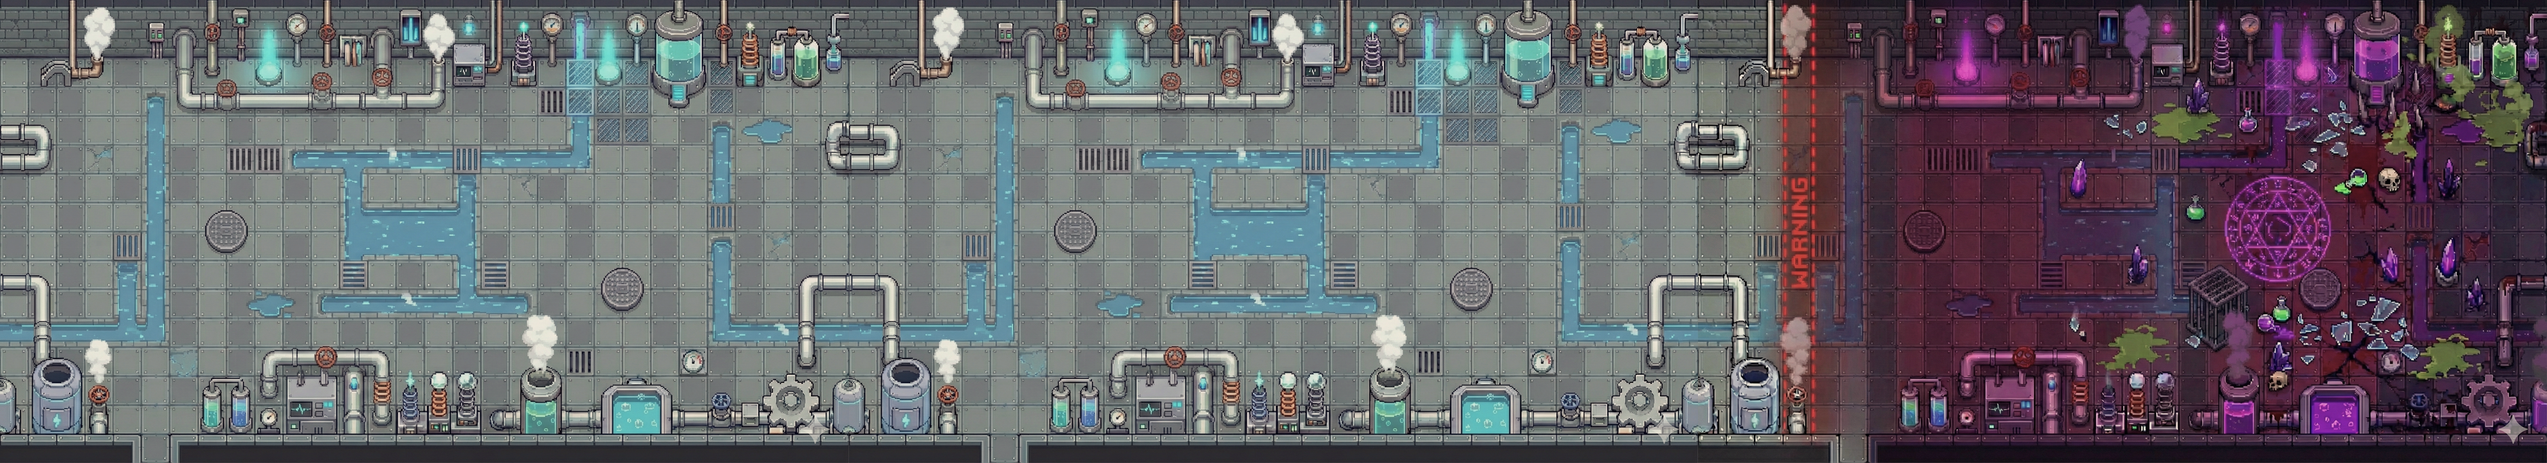
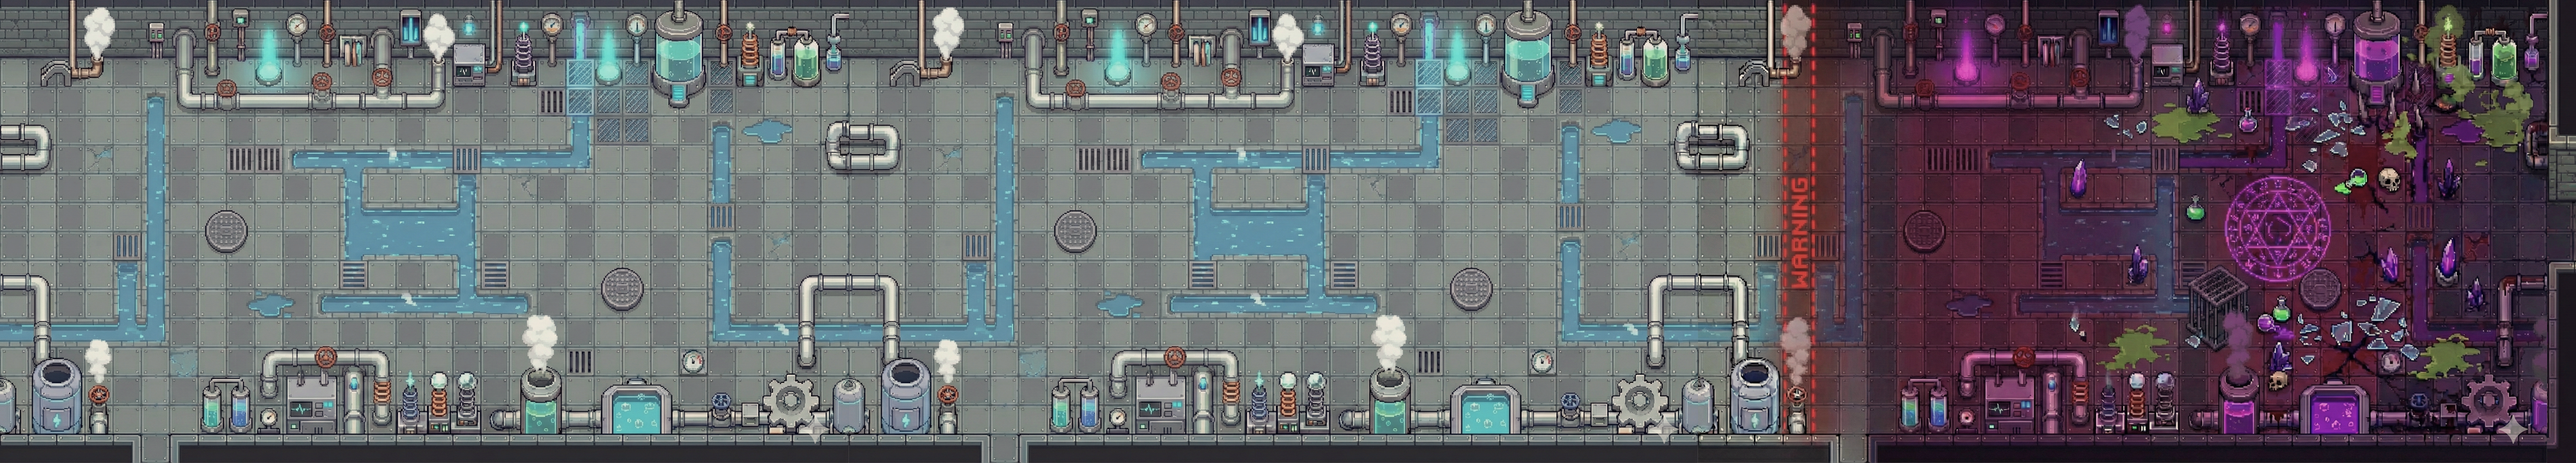
buffer background

diff --git a/LevelT.cpp b/LevelT.cpp
@@ -159,7 +159,7 @@ void LevelT::draw() {
 	for (size_t i = 0; i < 4; ++i) {
 		if (DC->hero->shape->center_x() >= LevelSetting::lvl_bound_x[i] && DC->hero->shape->center_x() < LevelSetting::puzzle_bound_x[i]) {
 			background = IC->get(LevelSetting::lvl_background_path[i]);
-			al_draw_bitmap(IC->get(LevelSetting::tmp_background_path),
+			al_draw_bitmap(IC->get(LevelSetting::buffer_background_path[i]),
 						DC->camera->transform_bitmap(LevelSetting::lvl_bound_x[i]-640, 0).center_x(),
 						DC->camera->transform_bitmap(LevelSetting::lvl_bound_x[i]-640, 0).center_y(), 0);
 			al_draw_bitmap(background,
@@ -167,7 +167,7 @@ void LevelT::draw() {
 						DC->camera->transform_bitmap(LevelSetting::lvl_bound_x[i], 0).center_y(), 0);
 		} else if (DC->hero->shape->center_x() >= LevelSetting::puzzle_bound_x[i] && DC->hero->shape->center_x() < LevelSetting::lvl_bound_x[i+1] - 640) {
 			background = IC->get(LevelSetting::lvl_background_path[i]);
-			al_draw_bitmap(IC->get(LevelSetting::tmp_background_path),
+			al_draw_bitmap(IC->get(LevelSetting::buffer_background_path[i+1]),
 						DC->camera->transform_bitmap(LevelSetting::lvl_bound_x[i+1]-640, 0).center_x(),
 						DC->camera->transform_bitmap(LevelSetting::lvl_bound_x[i+1]-640, 0).center_y(), 0);
 			al_draw_bitmap(background,
@@ -178,7 +178,7 @@ void LevelT::draw() {
 			al_draw_bitmap(background,
 						DC->camera->transform_bitmap(LevelSetting::lvl_bound_x[i], 0).center_x(),
 						DC->camera->transform_bitmap(LevelSetting::lvl_bound_x[i], 0).center_y(), 0);
-			al_draw_bitmap(IC->get(LevelSetting::tmp_background_path),
+			al_draw_bitmap(IC->get(LevelSetting::buffer_background_path[i+1]),
 						DC->camera->transform_bitmap(LevelSetting::lvl_bound_x[i+1]-640, 0).center_x(),
 						DC->camera->transform_bitmap(LevelSetting::lvl_bound_x[i+1]-640, 0).center_y(), 0);
 			background = IC->get(LevelSetting::lvl_background_path[i+1]);

diff --git a/LevelT.h b/LevelT.h
@@ -30,7 +30,7 @@ namespace LevelSetting {
 		3476, 6676, 9876, 13076
 	};
 	constexpr int lvl_bound_x[5] = {
-		0, 4600, 7800, 11000, 14200
+		0, 4645, 7800, 11000, 14200
 	};
 	const std::array<std::string, 4> lvl_background_path = {
 		"./assets/image/background/lv1.png", // "./assets/image/background/lv1.png"
@@ -38,7 +38,12 @@ namespace LevelSetting {
 		"./assets/image/lvl_background.png",
 		"./assets/image/lvl_background.png"
 	};
-	const std::string tmp_background_path = "./assets/image/tmp_background.png";
+	const std::array<std::string, 4> buffer_background_path = {
+		"./assets/image/tmp_background.png",
+		"./assets/image/background/lv2_buffer.png", 
+		"./assets/image/tmp_background.png",
+		"./assets/image/tmp_background.png"
+	};
 };
 
 /**
